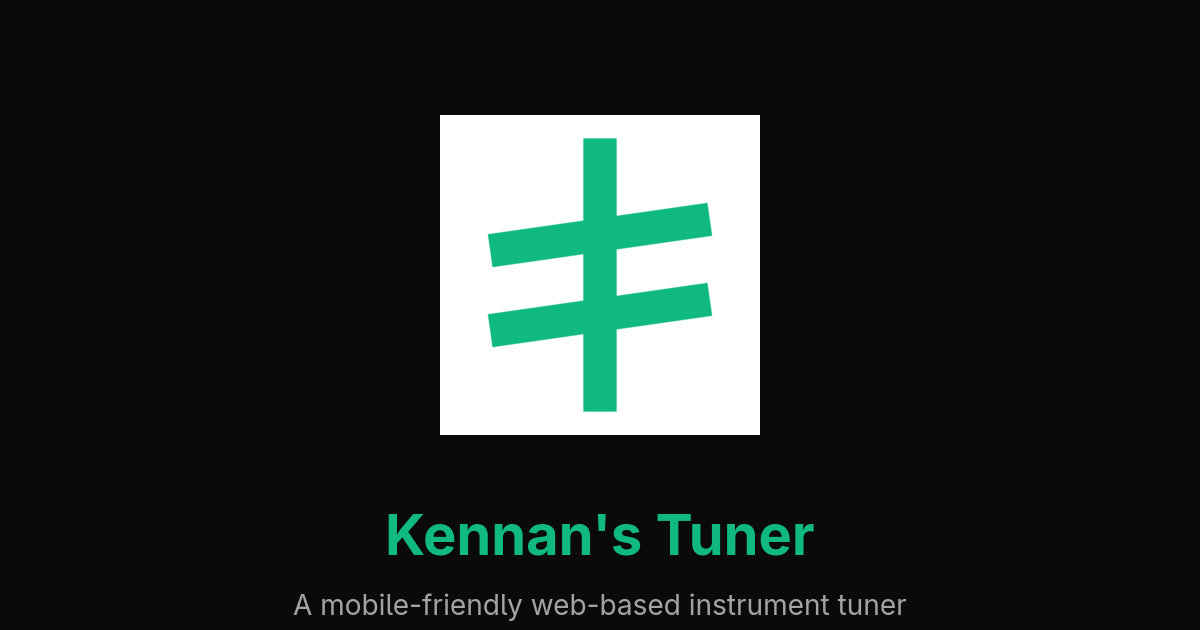
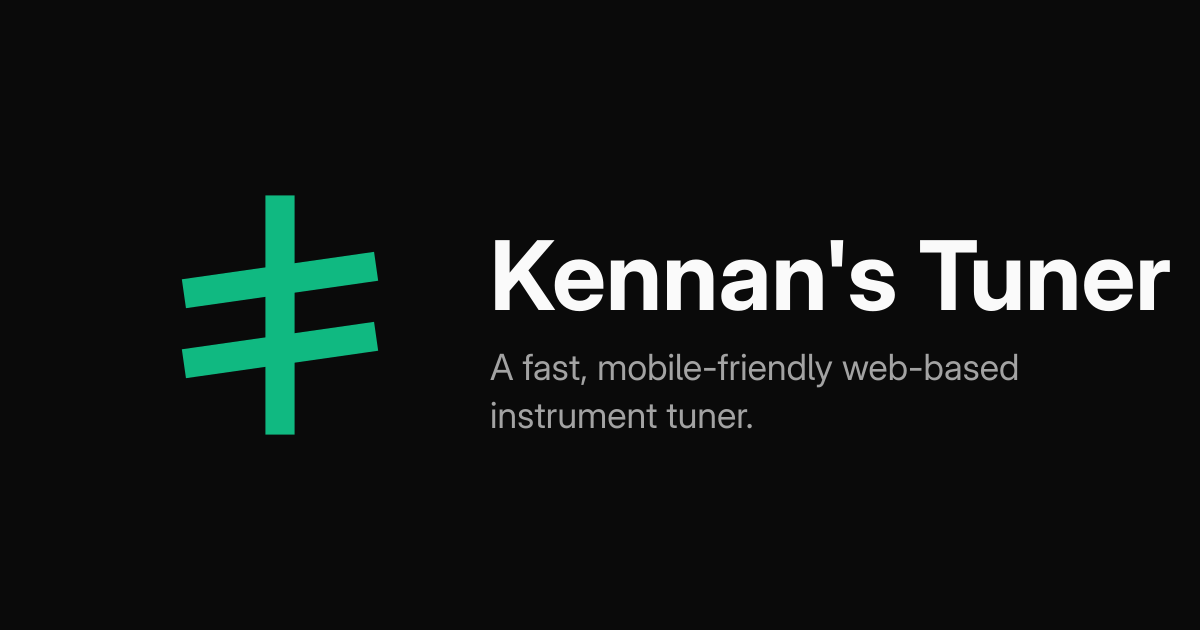
update readme and opengraph

Changed region(s): [[0.1542, 0.181, 0.9867, 0.6937], [0.2467, 0.9349, 0.7708, 0.9952], [0.3083, 0.8143, 0.6783, 0.9048]]

diff --git a/README.md b/README.md
@@ -8,4 +8,8 @@ An actually alright mobile friendly web based instrument tuner.
 
 Use at [tuner.kennan.dev](https://tuner.kennan.dev)
 
-![Image showing spectrogram](docs/spectrogram.png)
+<p align="center">
+  <img src="docs/pitch.png" alt="Pitch view" width="30%" />
+  <img src="docs/spectrogram.png" alt="Spectrogram view" width="30%" />
+  <img src="docs/amplitude.png" alt="Amplitude view" width="30%" />
+</p>
